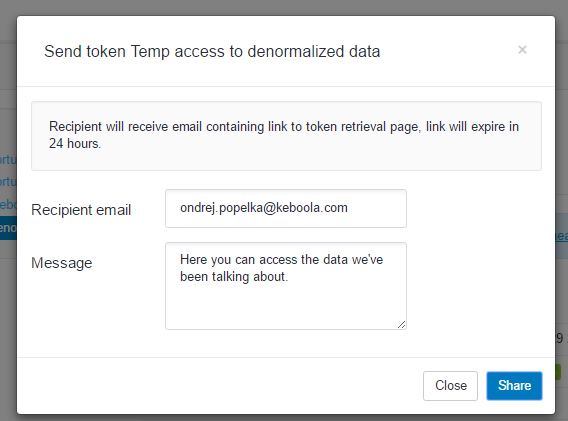
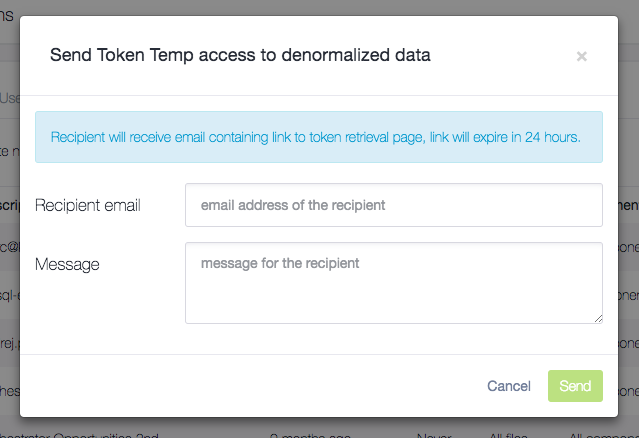
update tokens docs with send token feature screenshots

diff --git a/storage/tokens/index.md b/storage/tokens/index.md
@@ -51,8 +51,23 @@ Token details can be accessed and updated anytime on the token detail page.
 {: .image-popup}
 ![Screenshot - Access Tokens](/storage/tokens/access-token-detail-3.png)
 
+After the token is created, it to an arbitrary email address by clicking the **Send token** button.
 
-The token can be explored Via the [*Storage Console*](https://storage-api-console.keboola.com/).
+{: .image-popup}
+![Screenshot - Access Tokens](/storage/tokens/send-token-button.png)
+
+A message can be added to the email.
+
+{: .image-popup}
+![Screenshot - Send Token](/storage/tokens/send-token.png)
+
+The recipient will obtain an email with an invitation link leading to the following screen:
+
+{: .image-popup}
+![Screenshot - Token Welcome Screen](/storage/tokens/token-welcome.png)
+
+
+Via the [*Storage Console*](https://storage-api-console.keboola.com/), the added user can log into your project.
 
 {: .image-popup}
 ![Screenshot - Storage Console](/storage/tokens/storage-console.png)
